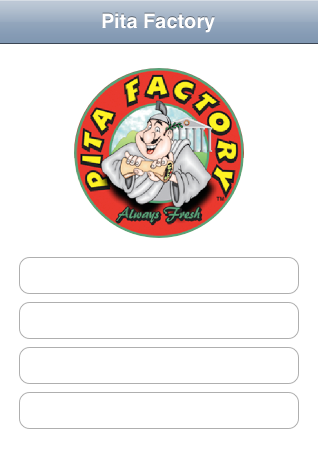
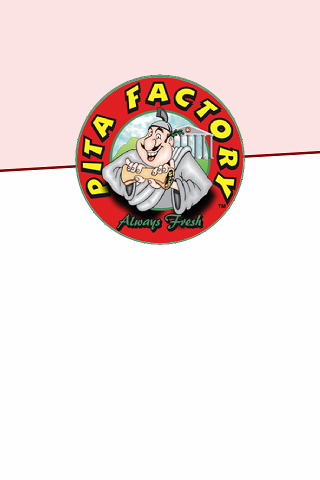
Makes the application laod the data from the server more often and fixes the loading page

diff --git a/MasterViewController.m b/MasterViewController.m
@@ -104,7 +104,8 @@
     
     [[[masterView tabController] view] setNeedsLayout];
     [[[masterView tabController] view] setNeedsDisplay];
-    [masterView dissolveLoadingView];
+    //This is here because if the app also hits the server successfully, it'll reload some stuff.
+    [masterView performSelector:@selector(dissolveLoadingView) withObject:nil afterDelay:2];
 }
 
 -(void) initializationFailure
@@ -113,6 +114,13 @@
     UIAlertView *alert = [[UIAlertView alloc] initWithTitle:@"Oops" message:@"You must have an internet connection the first time you run this app" delegate:self cancelButtonTitle:@"Okay" otherButtonTitles: nil];
     [masterView dissolveProgressIndicator];
     [alert show];
+}
+
+-(void)reloadData
+{
+    [masterView putUpLoadingView];
+    [appData initializeFromServer];
+    [masterView performSelector:@selector(dissolveLoadingView) withObject:nil afterDelay:2];
 }
 
 @end

diff --git a/OrderTabViewController.m b/OrderTabViewController.m
@@ -138,6 +138,12 @@
     {
         Item *theItem = [[orderRenderer objectForCellAtIndex:indexPath] objectForKey:@"menuItem"];
         ShinyItemViewController *newController = [[ShinyItemViewController alloc] initWithItem:[theItem copy]];
+         
+        if (([[theItem options] count] == 0) && [[theItem desc] isEqualToString:@""] ) {
+            [[theOrderManager thisOrder] addItem:theItem];
+            [tableView scrollToRowAtIndexPath:[NSIndexPath indexPathForRow:0 inSection:0] atScrollPosition:UITableViewScrollPositionTop animated:YES];
+            return;
+        }
         
         [[NSNotificationCenter defaultCenter] addObserver:self selector:@selector(addItem:) name:ITEM_DONE_BUTTON_HIT object:newController];
         

diff --git a/AppData.m b/AppData.m
@@ -237,7 +237,7 @@ NSString* harddiskFileFolder = @"~/Library/Application Support/PitaFactoryFiles/
                                         {
                                             locationState = [[LocationState alloc] initWithLocations:[call locations]];
                                         }
-                                        if (theMenu) {
+                                        if (theMenu && !initialized) {
                                             initialized = YES;
                                             [[NSNotificationCenter defaultCenter] postNotificationName:INITIALIZED_SUCCESS object:self];
                                         }

diff --git a/LocationState.m b/LocationState.m
@@ -29,4 +29,15 @@
     return self;
 }
 
+-(void)setLocations:(NSArray *)someLocations
+{
+    if (selectedLocation)
+    {
+        if ([locations indexOfObject:selectedLocation] < [someLocations count]) {
+            selectedLocation = [someLocations objectAtIndex:[locations indexOfObject:selectedLocation]];
+        }
+    }
+    locations = someLocations;
+}
+
 @end

diff --git a/AvocadoTest1/AppDelegate.m b/AvocadoTest1/AppDelegate.m
@@ -70,7 +70,7 @@
 - (void)applicationWillEnterForeground:(UIApplication *)application
 {
     // WE NEED OUR COOKIES, AT ALL TIMES
-    //[[page appData] initializeFromServer];
+    [page reloadData];
     [[NSHTTPCookieStorage sharedHTTPCookieStorage] setCookieAcceptPolicy:NSHTTPCookieAcceptPolicyAlways];
     /*
     [page initiateMenuRefresh];

diff --git a/LocationState.h b/LocationState.h
@@ -19,6 +19,6 @@
 -initWithLocations:(NSArray *) someLocations;
 
 @property (retain) Location *selectedLocation;
-@property (retain) NSArray *locations;
+@property (nonatomic, retain) NSArray *locations;
 
 @end

diff --git a/MasterViewController.h b/MasterViewController.h
@@ -19,6 +19,8 @@
 @property (retain) MasterView *masterView;
 @property (retain) AppData *appData;
 
-- (id)initWithFrame:(CGRect)frame;
+- (id) initWithFrame:(CGRect)frame;
+
+- (void) reloadData;
 
 @end

diff --git a/MasterView.h b/MasterView.h
@@ -25,4 +25,6 @@
 -(void)dissolveProgressIndicator;
 
 -(void)fadeOut:(UIView*)viewToDissolve withDuration:(NSTimeInterval)duration   andWait:(NSTimeInterval)wait;
+
+-(void)putUpLoadingView;
 @end

diff --git a/MasterView.m b/MasterView.m
@@ -55,4 +55,10 @@
     [UIView commitAnimations];
 }
 
+-(void)putUpLoadingView
+{
+    [loadingView setAlpha:1.0f];
+    [self sendSubviewToBack:tabView];
+}
+
 @end
